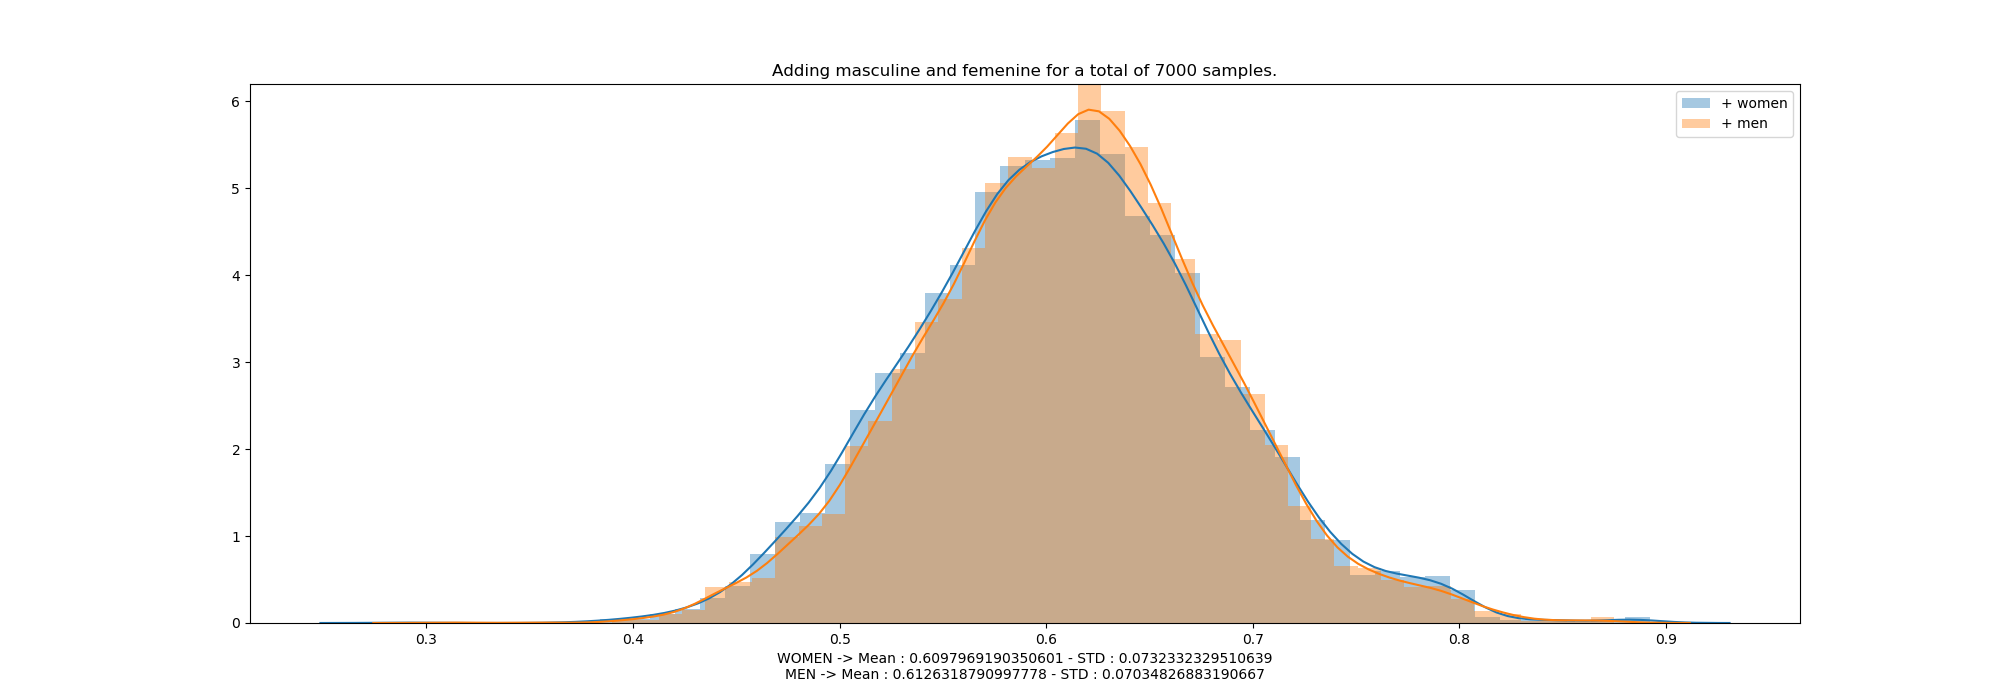
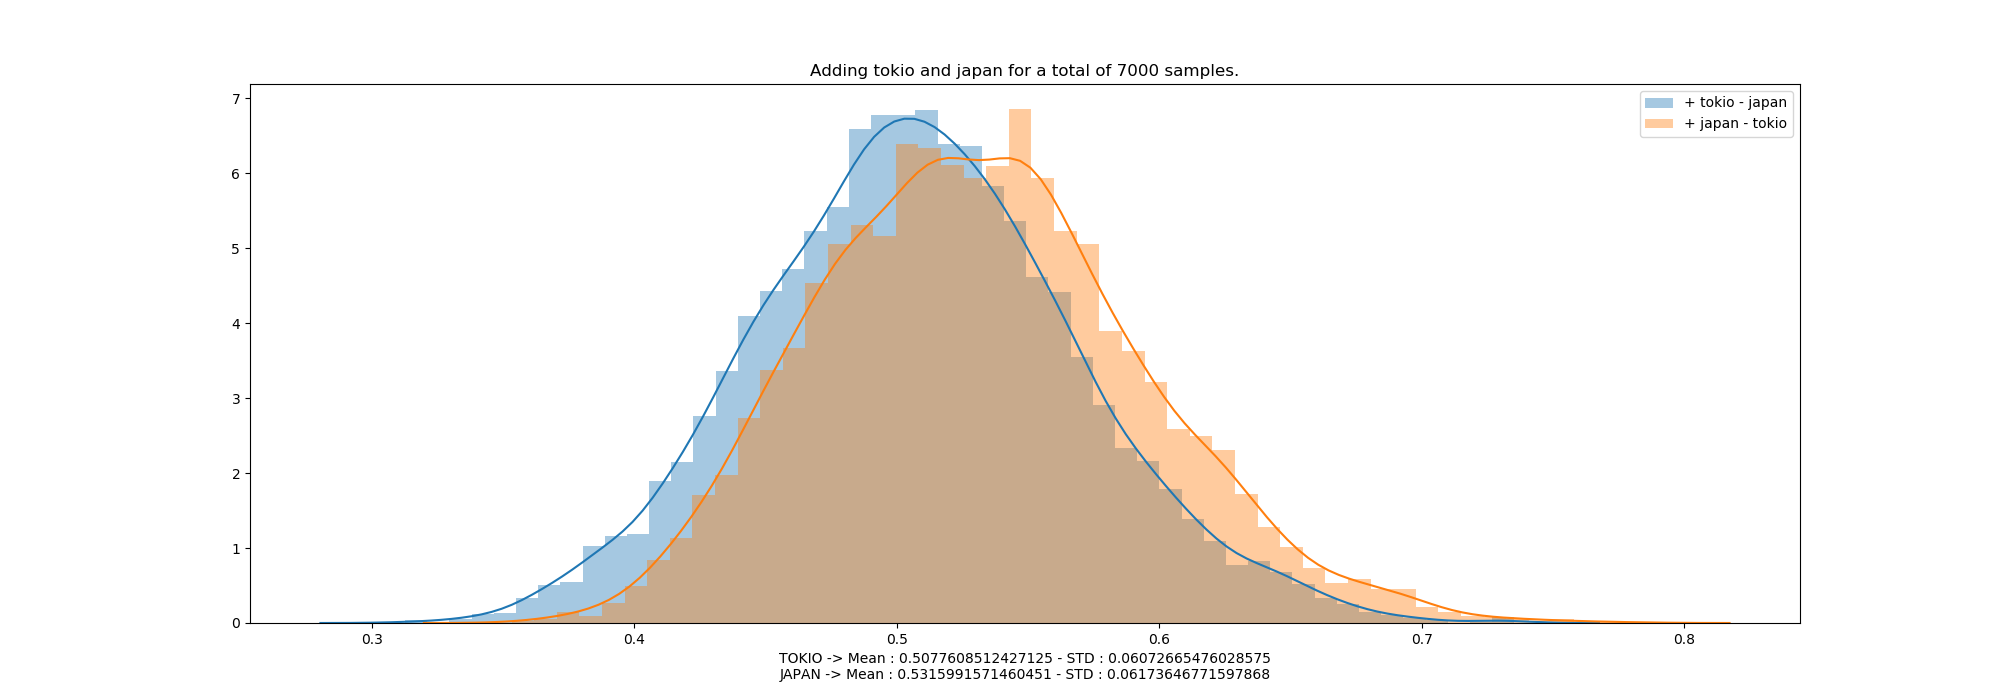
updated

Changed region(s): [[0.186, 0.09, 0.837, 0.93], [0.372, 0.93, 0.651, 0.99], [0.806, 0.12, 0.899, 0.18]]

diff --git a/Graphics_Analogies_1_SQL.py b/Graphics_Analogies_1_SQL.py
@@ -1,5 +1,5 @@
 import sqlite3
-import seaborn as sns 
+import seaborn as sns
 import matplotlib.pyplot as plt
 import numpy as np
 
@@ -7,7 +7,7 @@ import numpy as np
 word VARCHAR(20) PRIMARY KEY,
 
 femenine_word VARCHAR(20),
-femenine_value FLOAT(20), 
+femenine_value FLOAT(20),
 
 masculine_word VARCHAR(20),
 masculine_value FLOAT(20),
@@ -19,7 +19,7 @@ japan_word VARCHAR(20),
 japan_value FLOAT(20)
 '''
 
-route2 = '/Users/manuelgijon/Documents/Programación/Masters_thesis/Data/SQLite/Analogies_test.db'
+route2 = '/Users/manuelgijon/Documents/Programación/Masters_thesis/Data/SQLite/Analogies.db'
 conexion = sqlite3.connect(route2)
 # create the cursor pointing to the data base
 cursor = conexion.cursor()
@@ -32,7 +32,7 @@ def graph_femenine_1(rug = False):
 	plt.title('Add femenine for a total of ' + str(cantidad) + ' samples.')
 	if rug:
 		sns.distplot(datos, rug = True)
-	else: 
+	else:
 		sns.distplot(datos)
 	plt.xlabel('Mean : ' + str(np.mean(datos)) + ' - STD : ' + str(np.std(datos)))
 	plt.savefig('/Users/manuelgijon/Documents/Programación/Masters_thesis/Data/Images/Add femenine for a total of ' + str(cantidad) + ' samples.png')
@@ -55,7 +55,7 @@ def graph_masculine_1(rug = False):
 	plt.title('Add masculine for a total of ' + str(cantidad) + ' samples.')
 	if rug:
 		sns.distplot(datos, rug = True)
-	else: 
+	else:
 		sns.distplot(datos)
 	plt.xlabel('Mean : ' + str(np.mean(datos)) + ' - STD : ' + str(np.std(datos)))
 	plt.savefig('/Users/manuelgijon/Documents/Programación/Masters_thesis/Data/Images/Add masculine for a total of ' + str(cantidad) + ' samples.png')
@@ -77,7 +77,7 @@ def graph_tokio_1(rug = False):
 	plt.title('Add tokio for a total of ' + str(cantidad) + ' samples.')
 	if rug:
 		sns.distplot(datos, rug = True)
-	else: 
+	else:
 		sns.distplot(datos)
 	plt.xlabel('Mean : ' + str(np.mean(datos)) + ' - STD : ' + str(np.std(datos)))
 	plt.savefig('/Users/manuelgijon/Documents/Programación/Masters_thesis/Data/Images/Add tokio for a total of ' + str(cantidad) + ' samples.png')
@@ -99,7 +99,7 @@ def graph_japan_1(rug = False):
 	plt.title('Add japan for a total of ' + str(cantidad) + ' samples.')
 	if rug:
 		sns.distplot(datos, rug = True)
-	else: 
+	else:
 		sns.distplot(datos)
 	plt.xlabel('Mean : ' + str(np.mean(datos)) + ' - STD : ' + str(np.std(datos)))
 	plt.savefig('/Users/manuelgijon/Documents/Programación/Masters_thesis/Data/Images/Add japan for a total of ' + str(cantidad) + ' samples.png')
@@ -127,14 +127,14 @@ def graph_femenine_masculine_1():
 	cantidad2 = len(datos2)
 	plt.figure(figsize = (20, 7))
 	plt.title('Adding masculine and femenine for a total of ' + str(cantidad1) + ' samples.')
-	sns.distplot(datos1, label = '+ women')
-	sns.distplot(datos2, label = '+ men')
+	sns.distplot(datos1, label = '+ women - men')
+	sns.distplot(datos2, label = '+ men - women')
 	plt.legend()
 	plt.xlabel('WOMEN -> Mean : ' + str(np.mean(datos1)) + ' - STD : ' + str(np.std(datos1)) + '\nMEN -> Mean : ' + str(np.mean(datos2)) + ' - STD : ' + str(np.std(datos2)))
 	plt.savefig('/Users/manuelgijon/Documents/Programación/Masters_thesis/Data/Images/Add femenine and masculine for a total of ' + str(cantidad1) + ' samples.png')
 	plt.show()
 
-#graph_femenine_masculine_1()
+graph_femenine_masculine_1()
 
 def graph_tokio_japan_1():
 	cursor.execute("SELECT tokio_value FROM Analogies_1")
@@ -145,13 +145,14 @@ def graph_tokio_japan_1():
 	cantidad2 = len(datos2)
 	plt.figure(figsize = (20, 7))
 	plt.title('Adding tokio and japan for a total of ' + str(cantidad1) + ' samples.')
-	sns.distplot(datos1, label = '+ women')
-	sns.distplot(datos2, label = '+ men')
+	sns.distplot(datos1, label = '+ tokio - japan')
+	sns.distplot(datos2, label = '+ japan - tokio')
 	plt.legend()
 	plt.xlabel('TOKIO -> Mean : ' + str(np.mean(datos1)) + ' - STD : ' + str(np.std(datos1)) + '\nJAPAN -> Mean : ' + str(np.mean(datos2)) + ' - STD : ' + str(np.std(datos2)))
 	plt.savefig('/Users/manuelgijon/Documents/Programación/Masters_thesis/Data/Images/Add femenine and masculine for a total of ' + str(cantidad1) + ' samples.png')
 	plt.show()
 
+#graph_tokio_japan_1()
 
 # close the conexion with the data base
 conexion.close()

diff --git a/Analogies_3_SQL.py b/Analogies_3_SQL.py
@@ -3,6 +3,7 @@ import gensim.models as gm
 import pandas as pd
 import numpy as np
 import matplotlib.pyplot as plt
+from time import time
 
 '''
 word VARCHAR(20) PRIMARY KEY,
@@ -10,14 +11,10 @@ word VARCHAR(20) PRIMARY KEY,
 femenine_word VARCHAR(20),
 femenine_value FLOAT(20),
 
-masculine_word VARCHAR(20),
-masculine_value FLOAT(20),
+masculine_from_femenine_word VARCHAR(20),
+masculine_from_femenine_value FLOAT(20),
 
-tokio_word VARCHAR(20),
-tokio_value FLOAT(20),
-
-japan_word VARCHAR(20),
-japan_value FLOAT(20)
+distance_from_original_word float(20),
 '''
 
 ## FUNCTIONS:
@@ -37,18 +34,6 @@ def add_masculine(word, Tope = 1):
 	'''
 	return model.most_similar(positive = ['man', word], negative = ['woman'], topn = Tope)
 
-def add_Tokio(word, Tope = 1):
-	'''
-	'''
-	return model.most_similar(positive = ['Tokio', word], negative = ['Japan'], topn = Tope)
-
-def add_Japan(word, Tope = 1):
-	'''
-	'''
-	return model.most_similar(positive = ['Japan', word], negative = ['Tokio'], topn = Tope)
-
-
-
 ## SAVING:
 ## ======
 # create the data base
@@ -60,15 +45,15 @@ cursor = conexion.cursor()
 ## LOOPING:
 ## =======
 
-Start = 21592
-Stop = 25000
+Start = 0
+Stop = 2
 
 words = list(model.wv.vocab)[Start:Stop]
 
 for i in words:
-	resultado = (i, add_femenine(i)[0][0], add_femenine(i)[0][1], add_masculine(i)[0][0], add_masculine(i)[0][1], add_Tokio(i)[0][0], add_Tokio(i)[0][1], add_Japan(i)[0][0], add_Japan(i)[0][1])
+	resultado = (i, add_femenine(i)[0][0], add_femenine(i)[0][1], add_masculine(add_femenine(i)[0][0])[0][0], add_masculine(add_femenine(i)[0][0])[0][1], model.distance(add_femenine(i)[0][0], add_masculine(add_femenine(i)[0][0])[0][0]))
 	Resultado = [ resultado ]
-	cursor.executemany("INSERT INTO Analogies_1 VALUES (?, ?, ?, ?, ?, ?, ?, ?, ?)", Resultado)
+	cursor.executemany("INSERT INTO Analogies_1 VALUES (?, ?, ?, ?, ?, ?)", Resultado)
 	conexion.commit()
 
 

diff --git a/Analogies_3_SQL_create_table.py b/Analogies_3_SQL_create_table.py
@@ -1,0 +1,29 @@
+import sqlite3
+
+'''
+Create the data base : Analogies.db
+Create the table.    : Analogies_BF_WM
+'''
+
+route2 = '/Users/manuelgijon/Documents/Programación/Masters_thesis/Data/SQLite/Analogies_test.db'
+conexion = sqlite3.connect(route2)
+
+# create the cursor pointing to the data base
+cursor = conexion.cursor()
+# crete one table for this scipt
+
+cursor.execute('''
+	CREATE TABLE Analogies_BF_WM (
+			word VARCHAR(20) PRIMARY KEY,
+
+			femenine_word VARCHAR(20),
+			femenine_value FLOAT(20),
+
+			masculine_from_femenine_word VARCHAR(20),
+			masculine_from_femenine_value FLOAT(20),
+
+			distance_from_original_word float(20),
+	)''')
+
+# close the conexion with the data base
+conexion.close()
